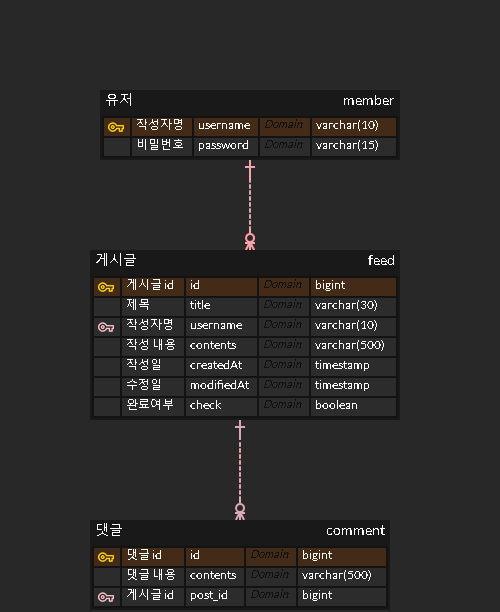
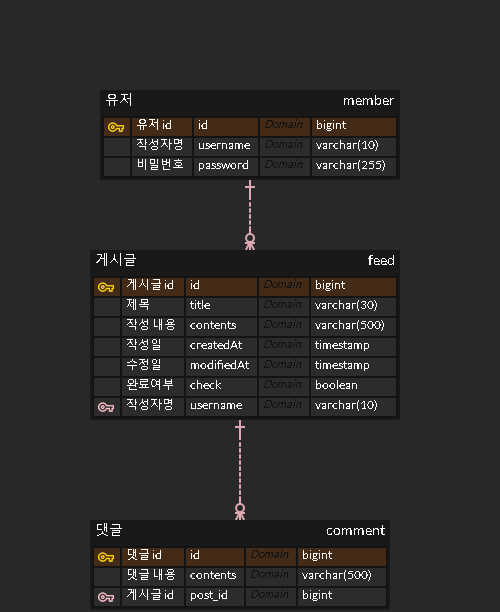
회원가입 유효성 검사

diff --git a/src/main/java/com/sparta/post_board/dto/SignupRequestDto.java b/src/main/java/com/sparta/post_board/dto/SignupRequestDto.java
@@ -2,14 +2,21 @@ package com.sparta.post_board.dto;
 
 import jakarta.validation.constraints.Email;
 import jakarta.validation.constraints.NotBlank;
+import jakarta.validation.constraints.Pattern;
+import jakarta.validation.constraints.Size;
 import lombok.Getter;
 import lombok.Setter;
 
 @Getter
 @Setter
 public class SignupRequestDto {
-    @NotBlank
+    @NotBlank(message = "사용자 이름은 필수값 입니다.")
+    @Pattern(regexp = "^[a-z0-9]+$")
+    @Size(min = 4, max = 10, message = "사용자 이름은 4자 이상 10자 이하여야 합니다.")
     private String username;
-    @NotBlank
+
+    @NotBlank(message = "비밀번호는 필수값 입니다.")
+    @Pattern(regexp = "^[a-zA-Z0-9]+$")
+    @Size(min = 8, max = 15, message = "비밀번호 8자 이상 15자 이하여야 합니다.")
     private String password;
 }

diff --git a/src/main/java/com/sparta/post_board/contorller/UserController.java b/src/main/java/com/sparta/post_board/contorller/UserController.java
@@ -27,7 +27,7 @@ public class UserController {
 
     // 회원가입 페이지가 없어 get mapping은 구현하지 않음
     @PostMapping("/user/signup")
-    public String signup(@RequestBody SignupRequestDto requestDto, BindingResult bindingResult) {
+    public String signup(@Valid @RequestBody SignupRequestDto requestDto, BindingResult bindingResult) {
         // Validation 예외처리
         // bindingResult에 에러가 담김
         List<FieldError> fieldErrors = bindingResult.getFieldErrors();

diff --git a/src/main/java/com/sparta/post_board/entity/User.java b/src/main/java/com/sparta/post_board/entity/User.java
@@ -1,7 +1,6 @@
 package com.sparta.post_board.entity;
 
 import jakarta.persistence.*;
-import jakarta.validation.constraints.Size;
 import lombok.Getter;
 import lombok.NoArgsConstructor;
 import lombok.Setter;
